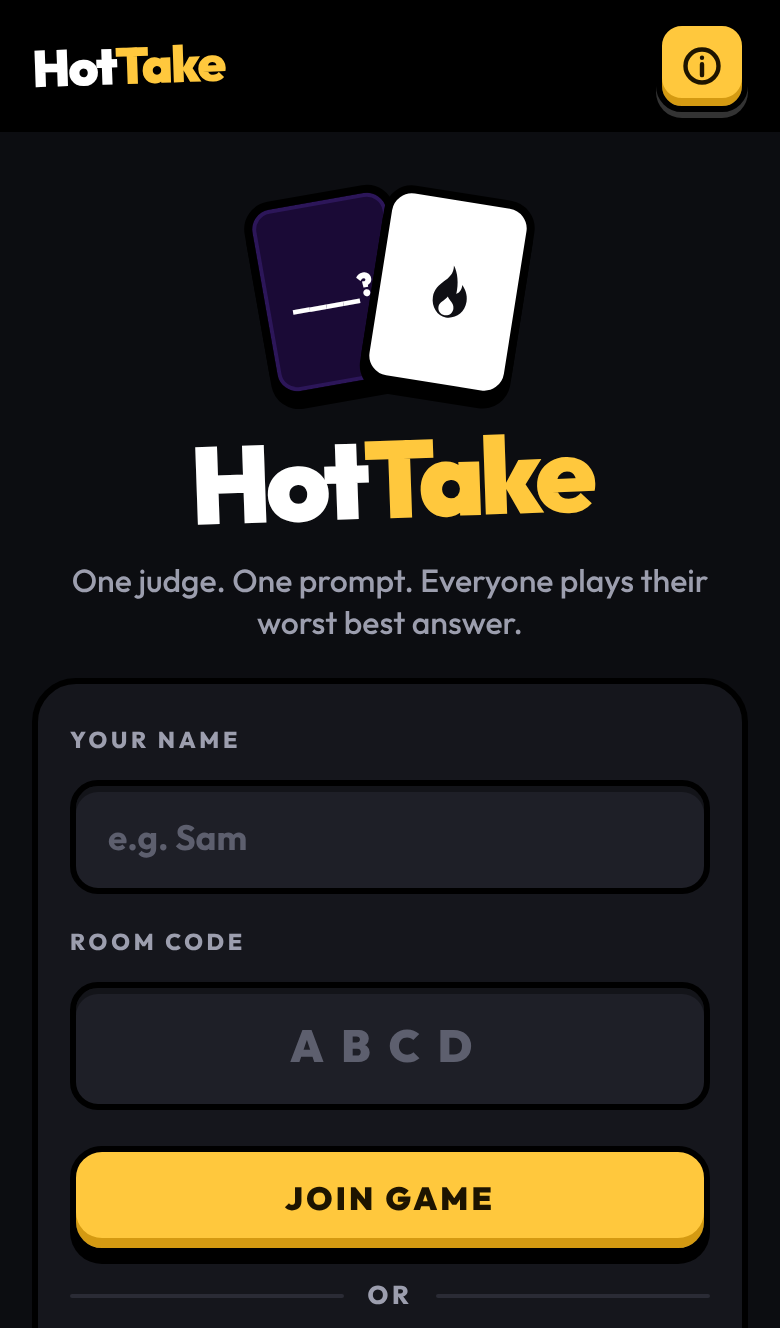
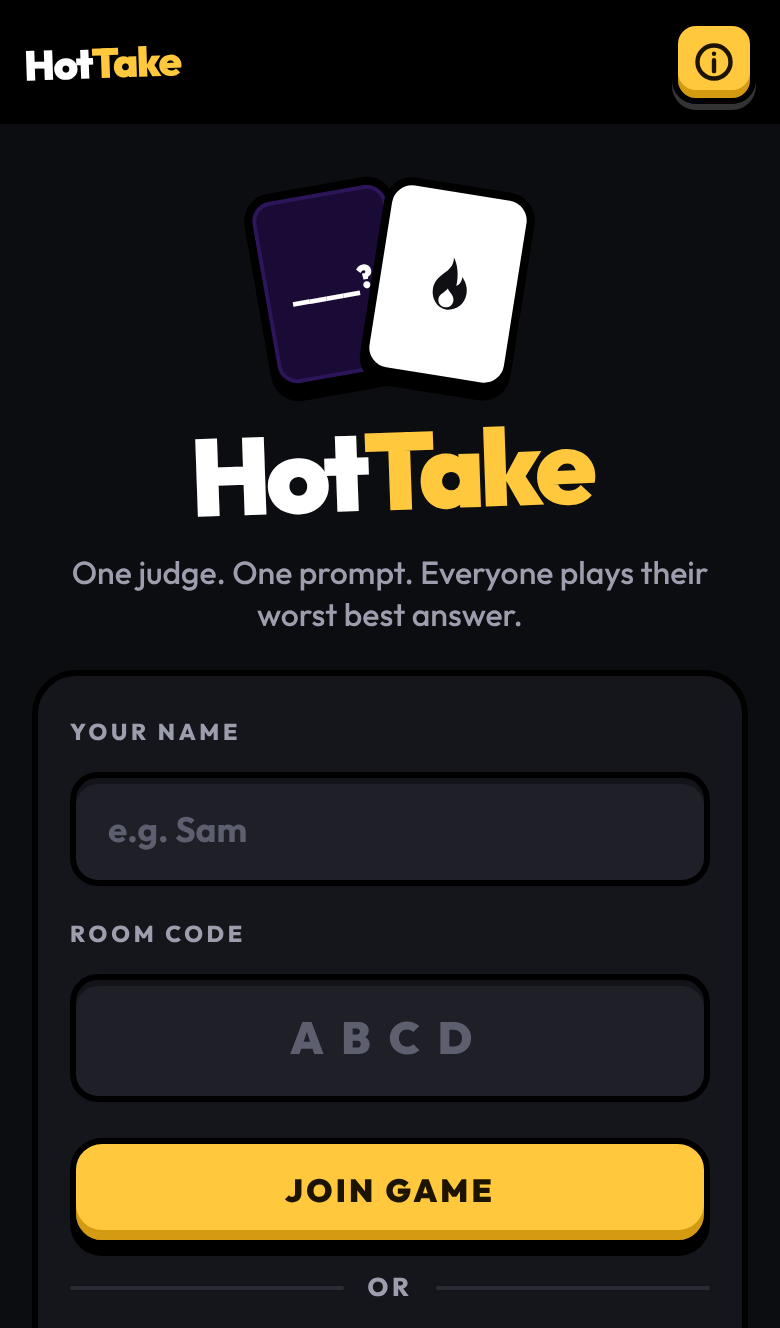
Move player count and room code into the top bar
The second bar is gone: the player count (icon and number) and the room
code now sit in the top bar between the menu button and the rules
button, freeing vertical space for cards. The bar tightens on smaller
phones and stays on one line down to 320px, even for wide codes like
WWWW; below 360px the menu button hides because the player count opens
the same menu. README screenshots and banner regenerated.

Claude-Session: https://claude.ai/code/session_01SNwHtWrVAugYjgPZZTF31A

diff --git a/public/style.css b/public/style.css
@@ -62,38 +62,48 @@ h2 { font-size: 1.2rem; }
 .shell { height: 100%; display: flex; flex-direction: column; }
 
 .appbar {
-  flex: none; display: flex; align-items: center; gap: 10px;
+  flex: none; display: flex; align-items: center; gap: 8px;
   background: var(--bar);
   padding: calc(var(--safe-top) + 10px) var(--gutter) 10px;
 }
 .logo {
-  font-size: 1.6rem; font-weight: 900; letter-spacing: -.04em; line-height: 1;
-  transform: rotate(-2deg); margin-right: 4px;
+  font-size: 1.5rem; font-weight: 900; letter-spacing: -.04em; line-height: 1; white-space: nowrap;
+  transform: rotate(-2deg); margin-right: 2px;
 }
 .logo span { color: var(--yellow); }
 
-.subbar {
-  flex: none; display: flex; align-items: center; gap: 10px;
-  padding: 6px var(--gutter);
-  background: #101116; border-bottom: 1px solid #1b1c23;
+/* Player count and room code sit in the top bar between the menu and the rules button. */
+.players-chip, .room-chip {
+  height: 46px; flex: none; display: inline-flex; align-items: center; gap: 6px;
+  background: var(--panel-2); color: var(--text); border: 2px solid #2b2c35; border-radius: 13px;
+  padding: 0 10px; font: inherit; font-weight: 800; cursor: pointer;
 }
-.lobby-btn {
-  display: inline-flex; align-items: center; gap: 10px;
-  background: none; border: 0; color: var(--text); padding: 4px 0;
-  font: inherit; font-weight: 800; font-size: 1.1rem; cursor: pointer;
-}
-.lobby-btn .ico { color: var(--muted); }
+.players-chip .ico, .room-chip .ico { width: 18px; height: 18px; color: var(--muted); }
+.room-chip { letter-spacing: .12em; }
+.room-chip span { margin-right: -.12em; } /* balance trailing letter-spacing */
 .count {
-  display: inline-grid; place-items: center; min-width: 28px; height: 28px; padding: 0 6px;
-  border-radius: 99px; background: var(--yellow); color: var(--yellow-ink); font-size: .95rem; font-weight: 900;
+  display: inline-grid; place-items: center; min-width: 26px; height: 26px; padding: 0 6px;
+  border-radius: 99px; background: var(--yellow); color: var(--yellow-ink); font-size: .9rem; font-weight: 900;
   border: 2px solid var(--ink);
 }
-.room-chip {
-  display: inline-flex; align-items: center; gap: 8px;
-  background: var(--panel-2); color: var(--text); border: 2px solid var(--ink); border-radius: 12px;
-  padding: 7px 12px; font: inherit; font-weight: 800; letter-spacing: .14em; cursor: pointer;
+
+/* Smaller phones: tighten the bar so everything stays on one line, even for wide codes like WWWW. */
+@media (max-width: 419px) {
+  .appbar { gap: 6px; padding-left: 12px; padding-right: 12px; }
+  .logo { font-size: 1.3rem; }
+  .appbar .icon-btn, .players-chip, .room-chip { height: 42px; }
+  .appbar .icon-btn { width: 42px; border-radius: 12px; }
+  .players-chip, .room-chip { padding: 0 8px; gap: 4px; }
+  .players-chip .ico { width: 16px; height: 16px; }
+  .room-chip { letter-spacing: .06em; }
+  .room-chip span { margin-right: -.06em; }
+  .room-chip .ico { display: none; }
 }
-.room-chip .ico { width: 18px; height: 18px; color: var(--muted); }
+/* Very narrow: the player-count chip already opens the menu, so the ☰ button can go. */
+@media (max-width: 359px) {
+  .logo { font-size: 1.15rem; }
+  .appbar .icon-btn[data-act=menu] { display: none; }
+}
 
 .stage { flex: 1; overflow-y: auto; -webkit-overflow-scrolling: touch; }
 .stage-inner {

diff --git a/public/app.js b/public/app.js
@@ -195,24 +195,22 @@
   // ---- shell pieces ------------------------------------------------------
 
   function appbar() {
-    const menu = state ? `<button class="icon-btn" data-act="menu" aria-label="Menu">${icons.menu}</button>` : '';
+    const info = `<button class="icon-btn yellow" data-act="rules" aria-label="How to play" title="How to play">${icons.info}</button>`;
+    if (!state) {
+      return `<header class="appbar"><span class="logo">Hot<span>Take</span></span><span class="spacer"></span>${info}</header>`;
+    }
+    const count = state.players.length;
     return `
       <header class="appbar">
         <span class="logo">Hot<span>Take</span></span>
-        ${menu}
+        <button class="icon-btn" data-act="menu" aria-label="Menu">${icons.menu}</button>
         <span class="spacer"></span>
-        <button class="icon-btn yellow" data-act="rules" aria-label="How to play" title="How to play">${icons.info}</button>
+        <button class="players-chip" data-act="menu" aria-label="${plural(count, 'player')}" title="${plural(count, 'player')}">
+          ${icons.users}<span class="count">${count}</span></button>
+        <button class="room-chip" data-act="invite" aria-label="Room ${esc(state.code)}: invite players" title="Invite players">
+          ${icons.link}<span>${esc(state.code)}</span></button>
+        ${info}
       </header>`;
-  }
-
-  function subbar() {
-    return `
-      <nav class="subbar">
-        <button class="lobby-btn" data-act="menu">${icons.users}<span>${state.phase === 'lobby' ? 'Lobby' : 'Players'}</span>
-          <span class="count">${state.players.length}</span></button>
-        <span class="spacer"></span>
-        <button class="room-chip" data-act="invite" aria-label="Invite players">${icons.link}<span>${esc(state.code)}</span></button>
-      </nav>`;
   }
 
   function stageHead(eyebrow, title) {
@@ -625,7 +623,6 @@
     app.innerHTML = `
       <div class="shell">
         ${appbar()}
-        ${state ? subbar() : ''}
         <main class="stage" data-keep-scroll="stage"><div class="stage-inner">${view.body}</div></main>
         ${view.dock || ''}
       </div>`;

diff --git a/public/rules.js b/public/rules.js
@@ -36,7 +36,7 @@ window.HotTakeRules = {
         <li>Every answer card in a deck is unique, so two players can never play the same answer in a round.</li>
         <li>If your phone drops, reopen the link within 2 minutes to get your seat and score back.
             The round won't wait for you.</li>
-        <li>If the judge disappears, the host can skip the round from the Scores menu. Played cards go back
+        <li>If the judge disappears, the host can skip the round from the menu (tap the player count in the top bar). Played cards go back
             to their owners.</li>
       </ul>
       <h3>Credits</h3>

diff --git a/README.md b/README.md
@@ -170,6 +170,10 @@ You can use either while cards are being played, as long as you haven't played y
   </tr>
 </table>
 
+The top bar is always visible during a game. Tap the **player count** (or ☰) for the scores and menu, the
+**room code** to show the invite QR code for late joiners, and the yellow **(i)** for the rules. On very narrow
+phones the ☰ button is hidden, because the player count opens the same menu.
+
 The first player to create the room is the **host**. The host can:
 
 - choose one or more **decks** and the **settings** (only between games),
